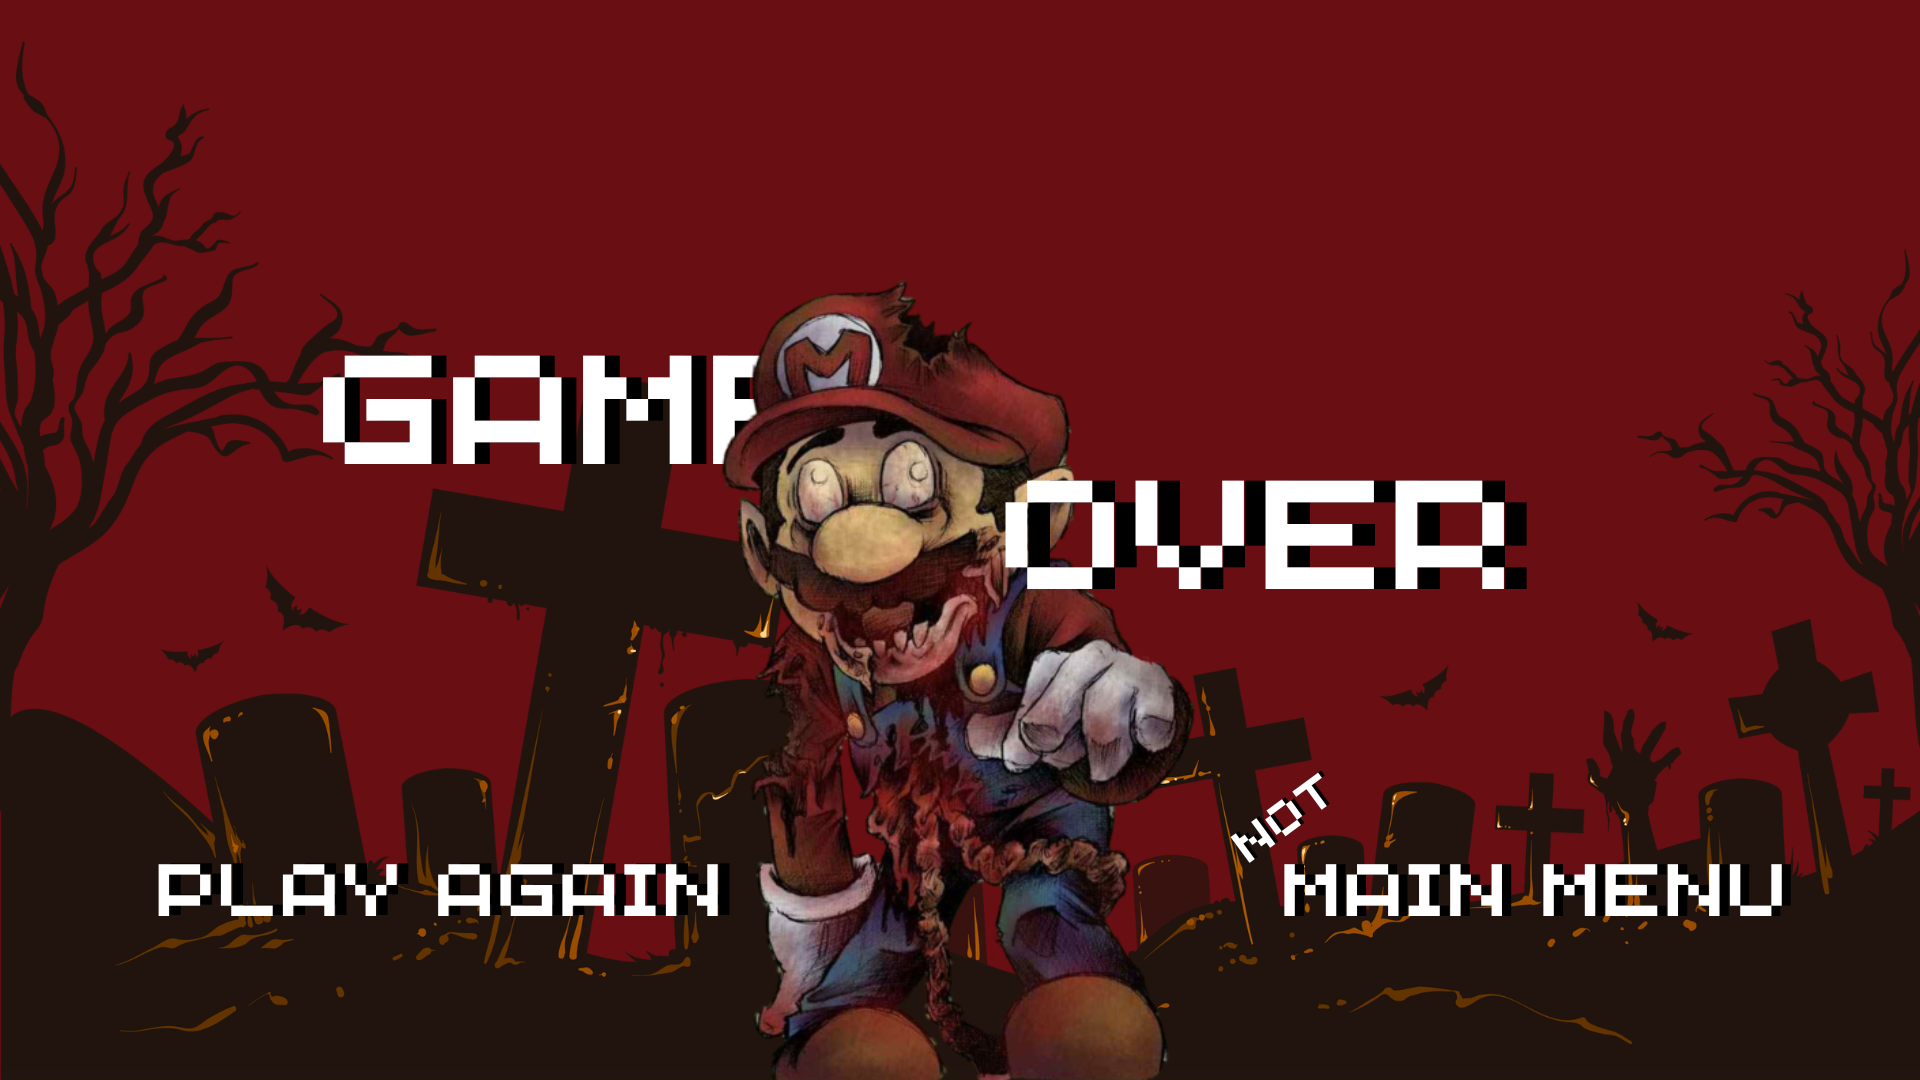
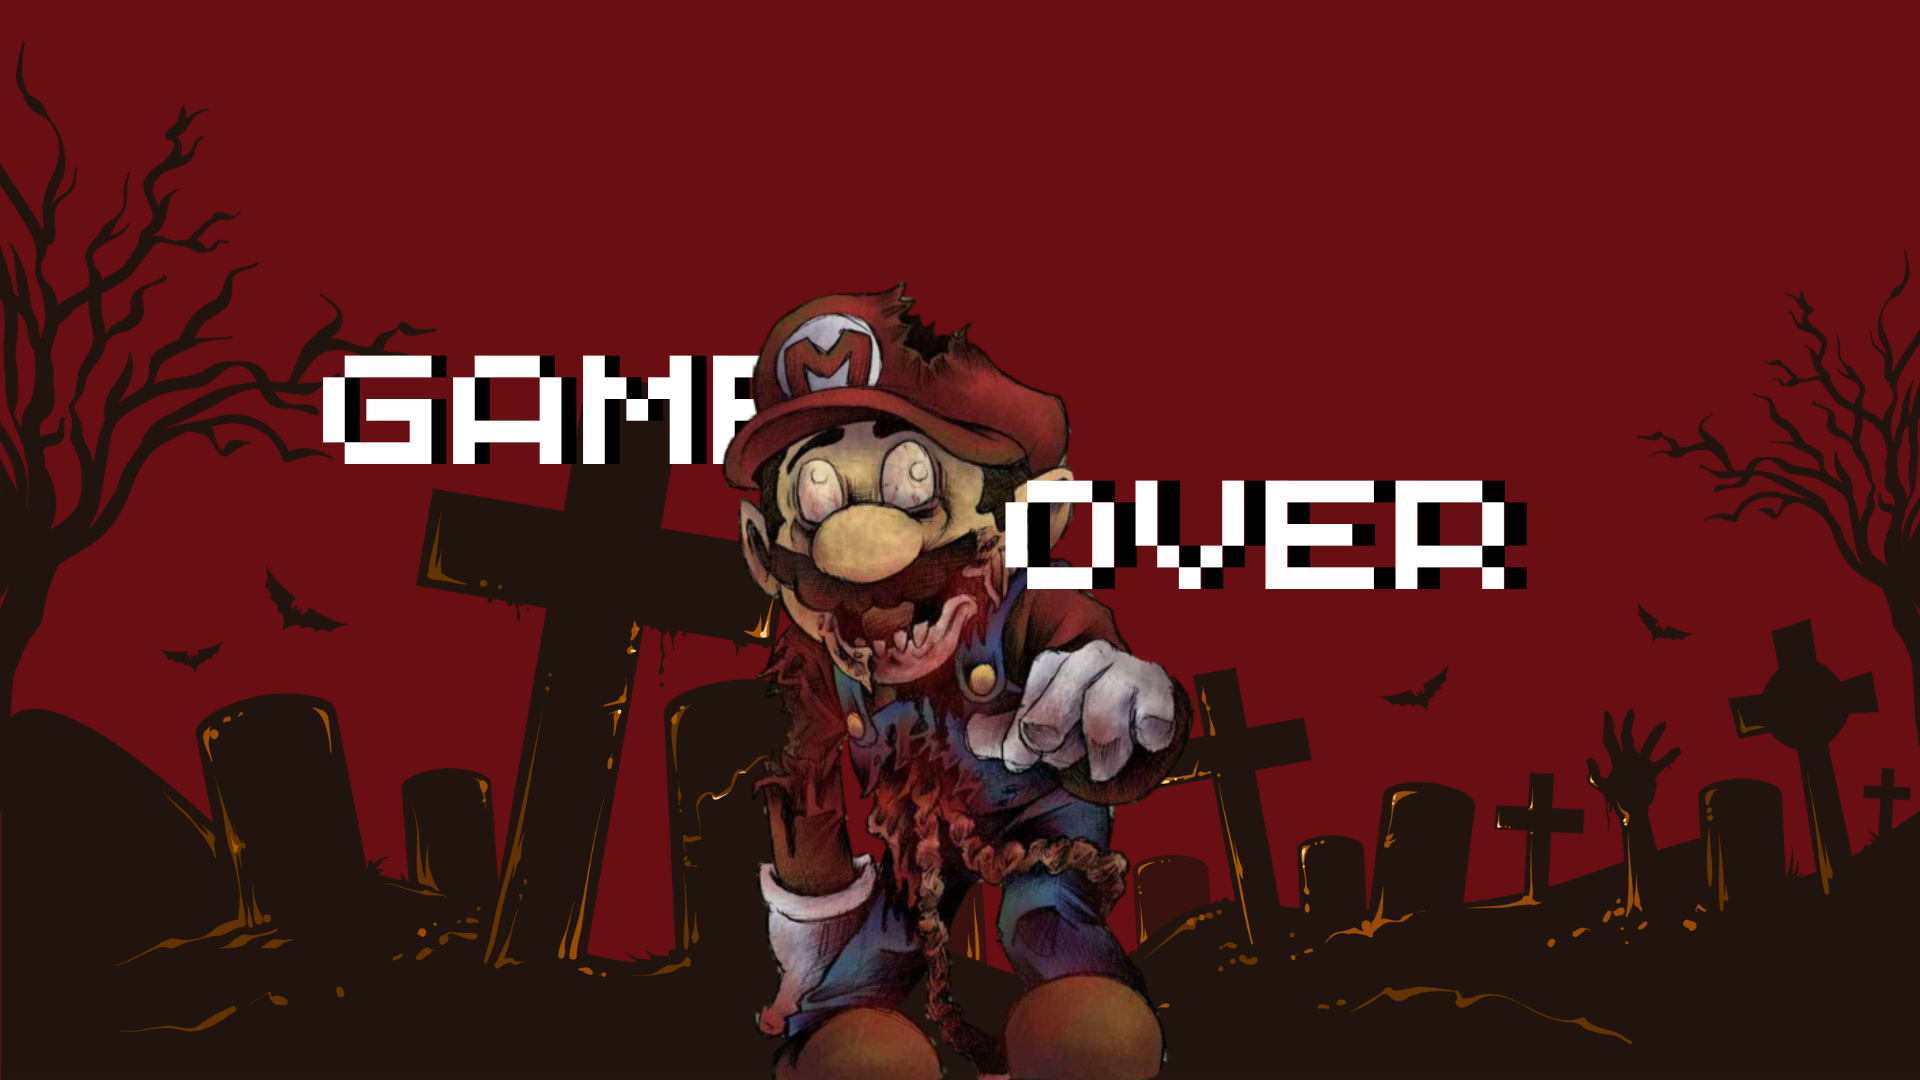
add gameover screen

Changed region(s): [[0.625, 0.7028, 0.9375, 0.8556], [0.0625, 0.7944, 0.4062, 0.8556]]

diff --git a/versao_final/Jogo_codigo/LevelOverworld.py b/versao_final/Jogo_codigo/LevelOverworld.py
@@ -1,19 +1,20 @@
 import pygame 
-from game import Game	
+from game import Game
+from screen import Screen	
 class LevelOverworld:
-	def __init__(self,current_level,surface,create_overworld):
-
+	def __init__(self,current_level,surface,new_overworld):
+		self.screen = Screen().screen
 		self.__display_surface = surface 
 		self.__current_level = current_level
 		self.__levels = [
 		{'node_pos':(300,450), 'content': 'this is level 1','unlock':1},
 		{'node_pos':(600,300), 'content': 'this is level 2','unlock':2},
 		{'node_pos':(900,450), 'content': 'this is level 3', 'unlock':2}]
-		level_content = self.levels[current_level]['content']
+		self.__level_content = self.levels[current_level]['content']
 		self.__new_max_level = self.levels[current_level]['unlock']
-		self.__create_overworld = create_overworld
+		self.__new_overworld = new_overworld
 		self.__font = pygame.font.Font(None,40)
-		self.__text_surf = self.font.render(level_content,True,'White')
+		self.__text_surf = self.font.render(self.__level_content,True,'White')
 		self.__text_rect = self.text_surf.get_rect(center = (1280 / 2, 720 / 2))
 
 	@property
@@ -33,8 +34,8 @@ class LevelOverworld:
 		return self.__new_max_level
 
 	@property
-	def create_overworld(self):
-		return self.__display_surface
+	def new_overworld(self):
+		return self.__new_overworld
 	
 	@property
 	def font(self):
@@ -51,15 +52,21 @@ class LevelOverworld:
 	def input(self):
 		keys = pygame.key.get_pressed()
 		if keys[pygame.K_RETURN]:
-			self.create_overworld(self.current_level,self.new_max_level)
-		if keys[pygame.K_ESCAPE]:
-			self.create_overworld(self.current_level,1)
+			self.new_overworld(self.current_level,self.new_max_level)
+		if keys[pygame.K_BACKSPACE]:
+			self.new_overworld(self.current_level,1)
 
 	def start(self):
-		Game().start_game()
+		game = Game()
+		game.start_game()
+	
 
 	def run(self):
 		self.input()
 		self.__display_surface.blit(self.text_surf,self.text_rect)
 		pygame.display.flip()
 
+	def game_over(self):
+		bg = pygame.transform.scale(pygame.image.load("images/4.png"),(1200,700))
+		self.screen.blit(bg,(0, 0))
+		pygame.display.flip()

diff --git a/versao_final/Jogo_codigo/main.py b/versao_final/Jogo_codigo/main.py
@@ -10,6 +10,8 @@ class Main:
 		self.screen = pygame.display.set_mode((1200,700))
 		self.overworld = Overworld(0,self.max_level,self.screen,self.create_level)
 		self.status = 'overworld'
+		self.BACK_KEY = False
+		self.running = True
 
 	def create_level(self,current_level):
 		self.level = LevelOverworld(current_level,self.screen,self.create_overworld)
@@ -18,33 +20,46 @@ class Main:
 	def create_overworld(self,current_level,new_max_level):
 		if new_max_level > self.max_level:
 			self.max_level = new_max_level
-		self.overworld = LevelOverworld(current_level,self.max_level,self.screen,self.create_level)
+		self.overworld = LevelOverworld(current_level,self.screen,self.create_level)
 		self.status = 'overworld'
 
 	def run(self):
 		if self.status == 'overworld':
 			self.overworld.run()
-			
 		else:
 			self.level.run()
 			sleep(2)
 			self.level.start()
+			self.level.game_over()
+			sleep(3)
+			self.status = 'overworld'
+
+	def check_events(self):
+		for event in pygame.event.get():
+			if event.type == pygame.KEYDOWN:
+				if event.key == pygame.K_BACKSPACE:
+					self.BACK_KEY = True
+                
 
 	def start(self):
 		pygame.init()
 		
 		clock = pygame.time.Clock()
-		main = Main()
 		bg = pygame.transform.scale(pygame.image.load("images_overworld/background.png"),(1200,700))
 
-		while True:
+		while self.running:
+			self.check_events()
 			for event in pygame.event.get():
 				if event.type == pygame.QUIT:
 					pygame.quit()
 					sys.exit()
+				
 
 			self.screen.blit(bg, (0, 0))
-			main.run()
+			self.run()
 
 			pygame.display.update()
 			clock.tick(60)
+			if self.BACK_KEY:
+				self.running = False
+			self.BACK_KEY = False

diff --git a/versao_final/Jogo_codigo/level_controller.py b/versao_final/Jogo_codigo/level_controller.py
@@ -35,7 +35,7 @@ class LevelController:
         return self.__game_over_player
 
     @game_over_player.setter
-    def game_over(self,game_over_player):
+    def game_over_player(self,game_over_player):
         self.__game_over_player = game_over_player
 
 
@@ -108,11 +108,12 @@ class LevelController:
                 self.__score.update()
     
     def game_over(self):
-        if self.__player.sprite.alive == False or self.__game_over_player == True:
+        if self.__player.sprite.alive == False:
+            self.__game_over_player = True
+        if self.__game_over_player:
             self.__scoreDAO.add(self.__date, self.__score)
             print(self.__scoreDAO.get_all())
-            self.__player.sprite.alive = True
-            self.__game_over_player = True
+
 
     def run(self):
         self.draw_control()

diff --git a/versao_final/Jogo_codigo/play.py b/versao_final/Jogo_codigo/play.py
@@ -39,7 +39,7 @@ class Play():
     def game_loop(self):
         while self.playing:
             self.check_events()
-            if self.START_KEY:
+            if self.BACK_KEY:
                 self.playing= False
 
             #JOGO AQUI
@@ -62,6 +62,7 @@ class Play():
             if event.type == pygame.KEYDOWN:
                 if event.key == pygame.K_RETURN:
                     self.START_KEY = True
+                    self.__game.running = True
                 if event.key == pygame.K_BACKSPACE:
                     self.BACK_KEY = True
                 if event.key == pygame.K_DOWN:
@@ -84,3 +85,4 @@ g = Play()
 while g.running:
     g.curr_menu.display_menu()
     g.game_loop()
+    g.reset_keys()

diff --git a/versao_final/Jogo_codigo/game.py b/versao_final/Jogo_codigo/game.py
@@ -12,6 +12,10 @@ class Game:
         self.__name = pygame.display.set_caption('Not Mario')
         self.__level = Level(self.__screen).levels[1]
 
+    @property
+    def running(self):
+        return self.__running
+
     def start_game(self):
         pygame.init()
         bg = pygame.transform.scale(pygame.image.load("images_overworld/background.png"),(1200,700))
@@ -28,9 +32,7 @@ class Game:
 
             pygame.display.update()
             self.__clock.tick(self.__FPS)
-            print(self.__level.game_over_player)
+
             if self.__level.game_over_player == True:
                 self.__running = False
 
-#game = Game()
-#game.start_game()

diff --git a/versao_final/Jogo_codigo/player.py b/versao_final/Jogo_codigo/player.py
@@ -14,7 +14,7 @@ class Player(AnimatedObject):
         self.__status = 'idle'
         self.__max_health = 100
         self.__cur_health = 100
-        self.__alive = False
+        self.__alive = True
         self.__invincible = False
         self.__invincible_duration = 500
         self.__hurt_time = 0
@@ -181,6 +181,7 @@ class Player(AnimatedObject):
             self.image = pygame.transform.flip(image, True, False)
         
     def update(self):
+        self.check_alive()
         self.animate()
         self.move()
         self.jump()
